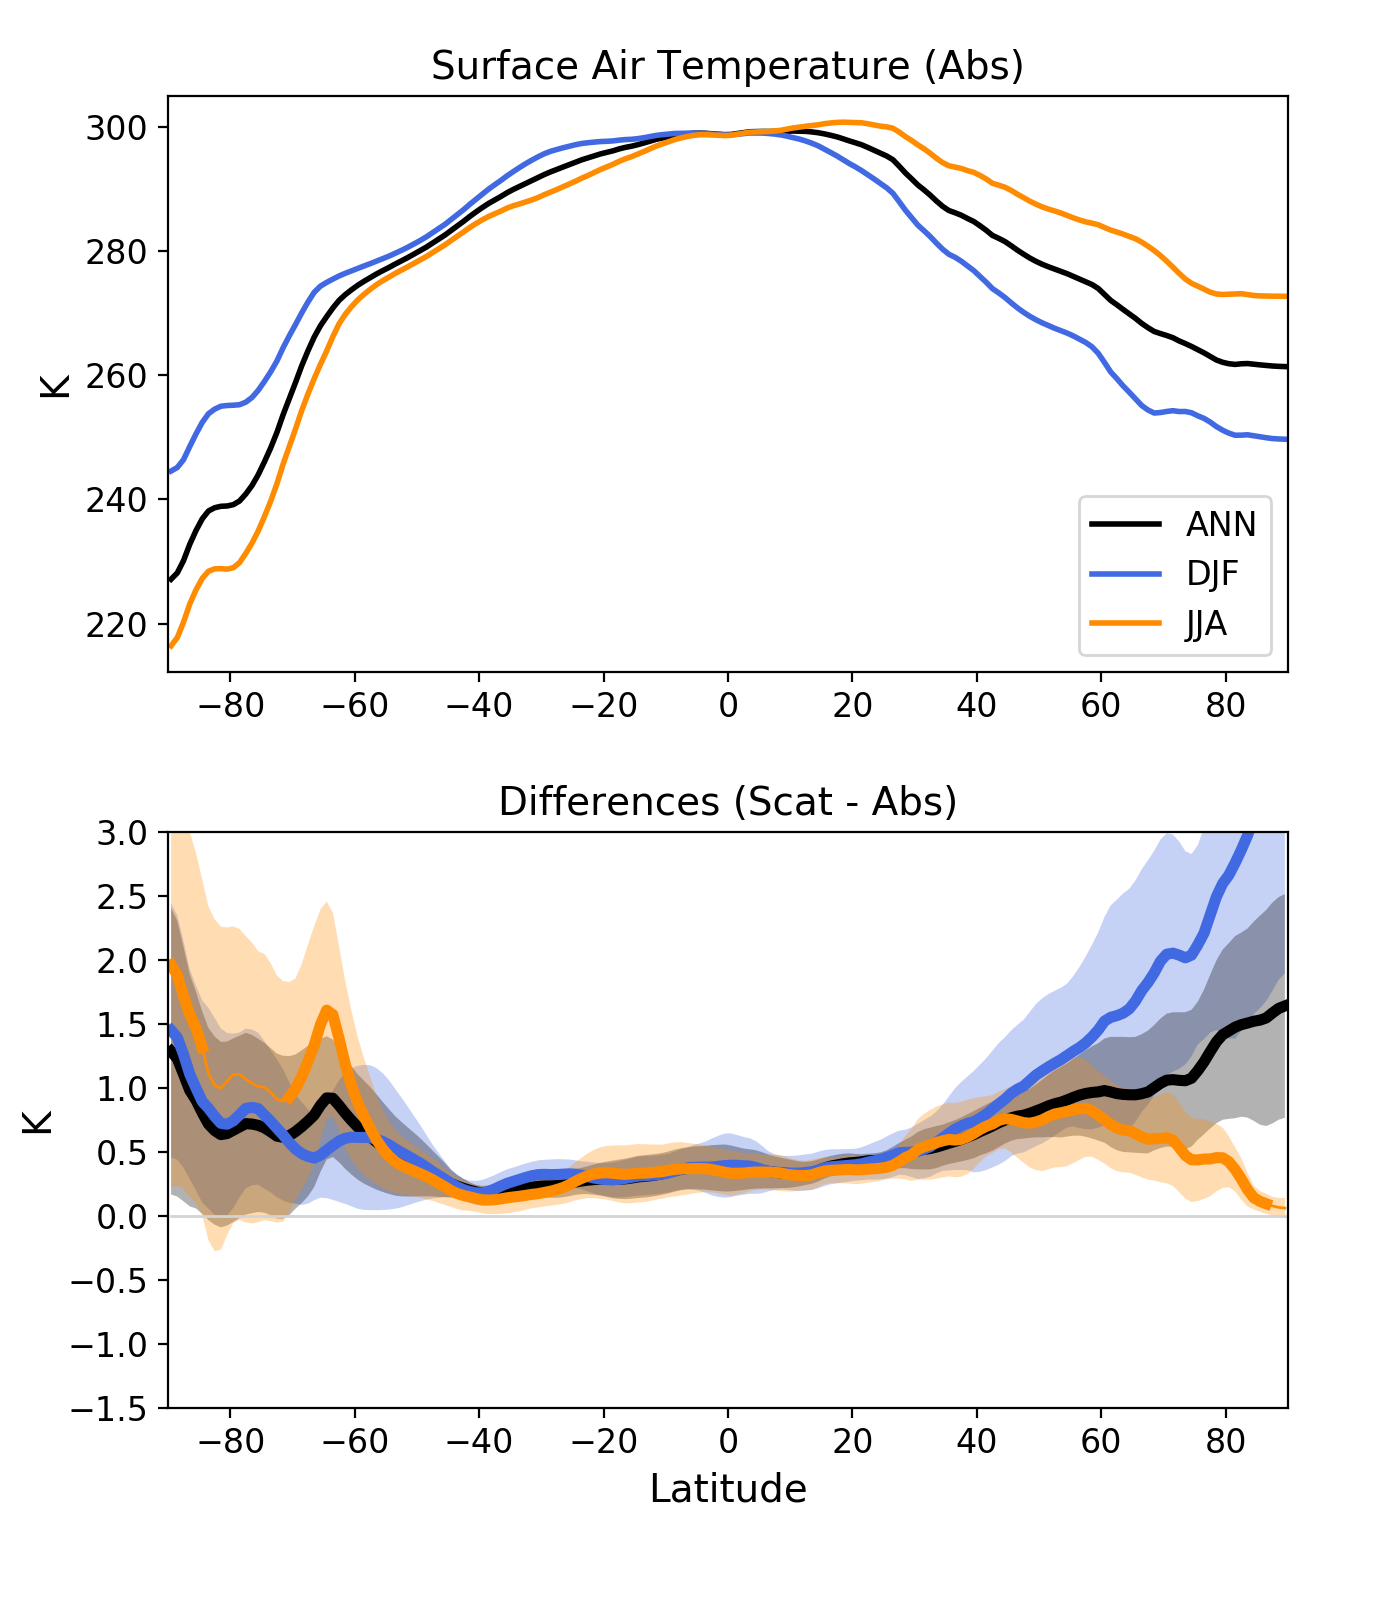
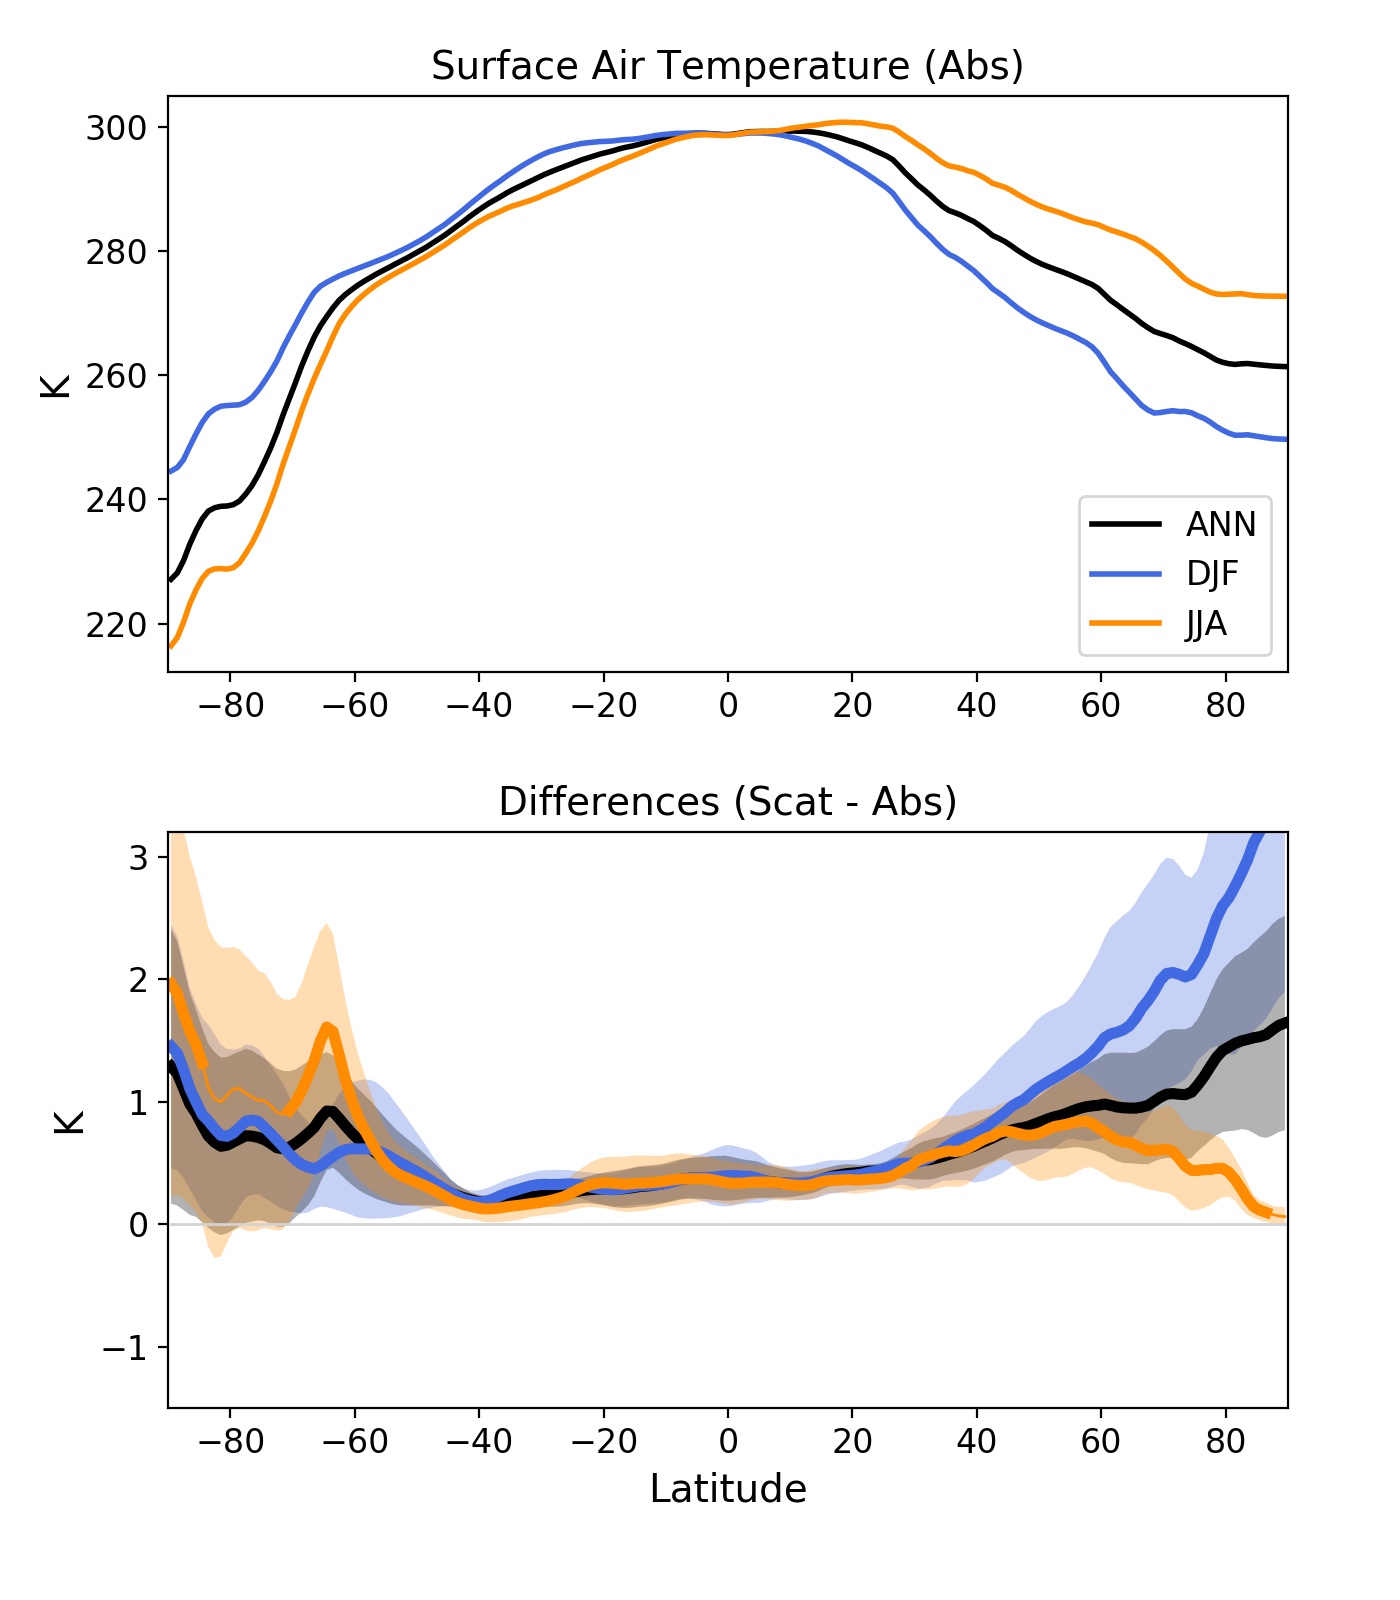
none

Changed region(s): [[0.0614, 0.5, 0.9214, 0.8438], [0.0, 0.6875, 0.0614, 0.7188]]

diff --git a/d4_zonal_mean_model_vs_model.py b/d4_zonal_mean_model_vs_model.py
@@ -265,7 +265,7 @@ ax2.set_title("Differences (Scat - Abs)",fontsize=14) #+var_long_name,fontsize=1
 ax2.set_ylabel(units,fontsize=14)
 ax2.set_xlabel("Latitude",fontsize=14)
 ax2.set_xlim(-90,90)
-ax2.set_ylim(-1.5,3.0)
+ax2.set_ylim(-1.5,3.2)
 plt.xticks(fontsize=12)
 plt.yticks(fontsize=12)
 
